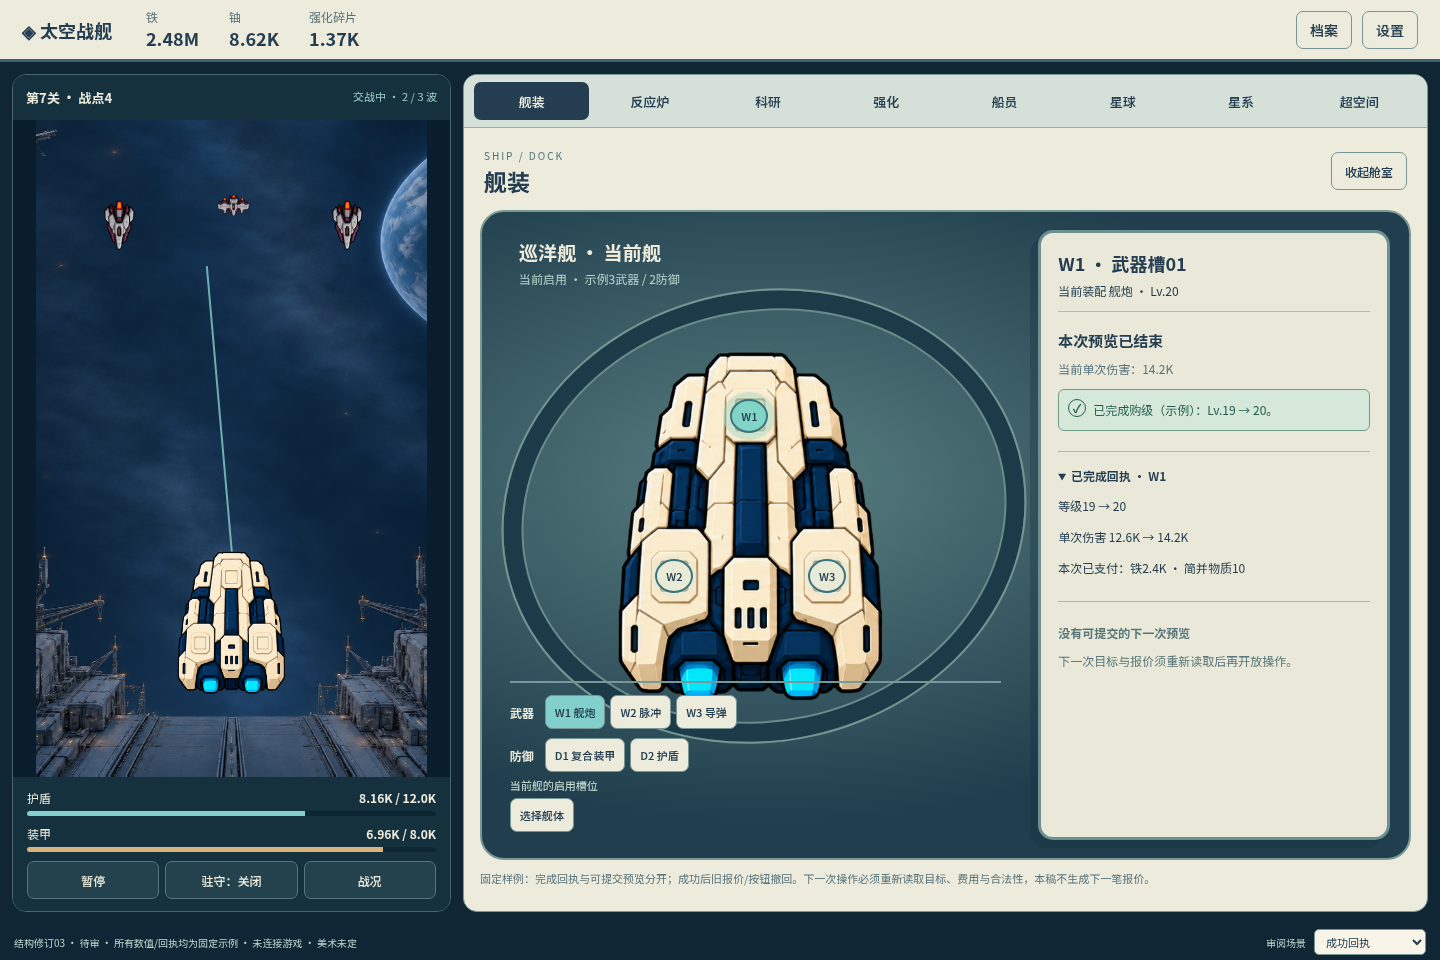
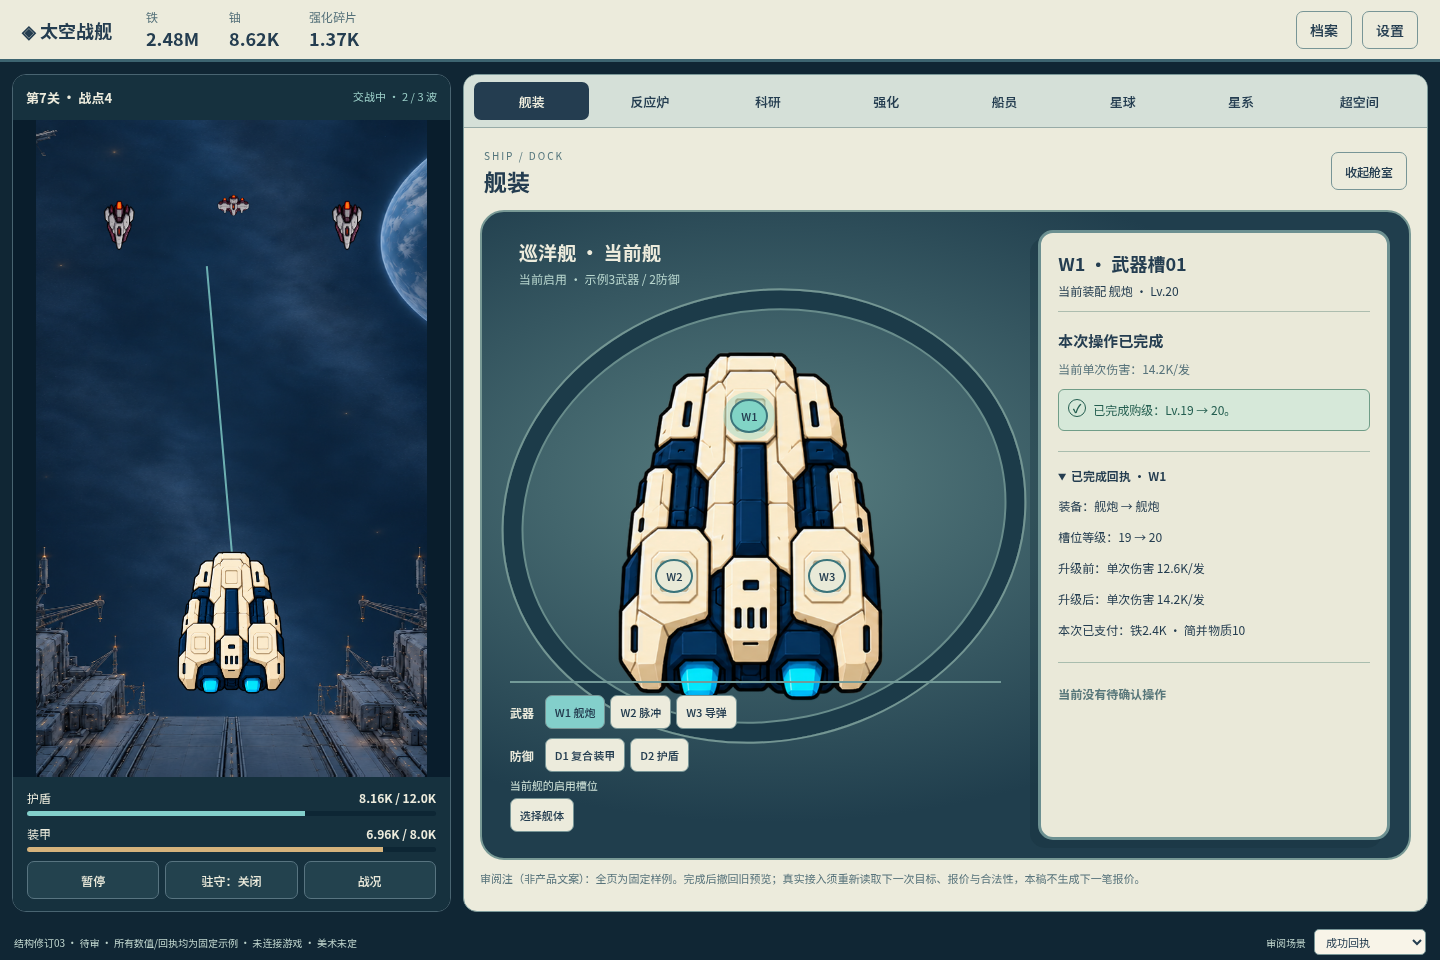
docs: correct refit success metrics and completed receipt copy

diff --git a/space-battleship/docs/ui-design-candidate/desktop.js b/space-battleship/docs/ui-design-candidate/desktop.js
@@ -60,21 +60,29 @@ function researchView(){
   </div><p class="scene-note">固定样例：效果、工作量和预计时间不是配置正确性证明。当前研究与候选分离；自动投入设置和岗位续研分别显示，铁/铀通过既有单资源端口独立应用。</p>`;
 }
 const slotData={W1:{name:'武器槽01',type:'舰炮',value:'12.6K',next:'14.2K',property:'单次伤害'},W2:{name:'武器槽02',type:'脉冲',value:'8.4K',next:'9.5K',property:'单次伤害'},W3:{name:'武器槽03',type:'导弹',value:'6.2K',next:'7.0K',property:'单次伤害'},D1:{name:'防御槽01',type:'复合装甲',value:'8.0K',next:'9.1K',property:'最大容量'},D2:{name:'防御槽02',type:'护盾',value:'12.0K',next:'13.6K',property:'最大容量'}};
+function equipmentMetric(type,value){
+  // Fixed display fixtures only; production consumes the module's comparison fields.
+  if(type==='长激光')return {name:'持续伤害',text:value+'/秒'};
+  if(type==='护盾')return {name:'最大护盾容量',text:value};
+  if(type==='复合装甲')return {name:'最大装甲容量',text:value};
+  return {name:'单次伤害',text:value+'/发'};
+}
 function equipmentView(){
   const slot=slotData[state.slot],mode=state.equipment,success=mode==='success',replace=state.candidate==='replace';
   const candidate=replace?(state.slot.startsWith('D')?'护盾':'长激光'):slot.type;
   const currentType=success&&replace?candidate:slot.type;
   const currentLevel=success&&!replace?'20':'19';
+  const beforeMetric=equipmentMetric(slot.type,slot.value),afterMetric=equipmentMetric(replace?candidate:slot.type,slot.next);
   const comparison=`<label class="small" for="candidate">候选操作</label><select id="candidate"><option value="upgrade" ${replace?'':'selected'}>购级 · 当前装备升1级</option><option value="replace" ${replace?'selected':''}>换装 · ${state.slot.startsWith('D')?'护盾':'长激光'}候选</option></select><p class="selection-line">预览目标：${state.slot} · ${replace?'换装':'购级1级'}</p>
     <table class="compare-table"><thead><tr><th>属性</th><th>当前</th><th>候选</th></tr></thead><tbody><tr><td>装备</td><td>${currentType}</td><td>${candidate}</td></tr><tr><td>槽位等级</td><td>19</td><td>${replace?'19':'20'}</td></tr><tr><td>${replace&&!state.slot.startsWith('D')?'主属性（异口径）':slot.property}</td><td>${replace&&!state.slot.startsWith('D')?'单次 ':''}${slot.value}</td><td>${replace&&!state.slot.startsWith('D')?'持续 ':''}${slot.next}${replace&&!state.slot.startsWith('D')?'/秒':''}</td></tr><tr><td>冷却</td><td>1.2秒</td><td>${replace?'2.0秒':'1.2秒'}</td></tr></tbody></table>
     <div class="quote"><strong>本次费用</strong><p>${replace?'换装报价等待真实端口接入':'铁2.4K · 简并物质10'}</p><p class="small ${mode==='insufficient'?'':'muted'}">${mode==='insufficient'?'缺少简并物质4；当前拥有6':'余额与合法性由业务返回'}</p></div>
     <button class="commit primary" id="equipment-commit" ${mode==='cooldown'?'disabled':''}>${mode==='cooldown'?'换装冷却中 · 2.6秒':replace?'确认换装（示例）':'购买1级（示例）'}</button>
     ${statusBlock(mode==='insufficient'?'error':mode==='cooldown'?'warning':'neutral',mode==='insufficient'?'未提交：缺少简并物质4，选择与草稿保持。':mode==='cooldown'?'冷却中：剩余2.6秒，选择与候选保持。':'预览就绪 · 尚未提交。','equipment-feedback')}`;
-  const completed=`<section class="completed-transaction" data-transaction="closed"><h3>本次预览已结束</h3><p class="small muted">当前${slot.property}：${slot.next}${replace&&!state.slot.startsWith('D')?'/秒':''}</p>${state.equipmentNotice?statusBlock('success',replace?'已完成换装（示例），槽位等级保留。':'已完成购级（示例）：Lv.19 → 20。','equipment-feedback'):''}<details class="receipt-record"><summary>已完成回执 · ${state.slot}</summary><p>${replace?`${slot.type} → ${candidate}；等级19保持`:'等级19 → 20'}</p><p>${replace?'替换前后属性口径分别记录':`${slot.property} ${slot.value} → ${slot.next}`}</p><p>${replace?'换装结果为固定样例':'本次已支付：铁2.4K · 简并物质10'}</p></details><div class="next-preview-status"><strong>没有可提交的下一次预览</strong><p>下一次目标与报价须重新读取后再开放操作。</p></div></section>`;
+  const completed=`<section class="completed-transaction" data-transaction="closed"><h3>本次操作已完成</h3><p class="small muted">当前${afterMetric.name}：${afterMetric.text}</p>${state.equipmentNotice?statusBlock('success',replace?'已完成换装，槽位等级保留。':'已完成购级：Lv.19 → 20。','equipment-feedback'):''}<details class="receipt-record"><summary>已完成回执 · ${state.slot}</summary><p>装备：${slot.type} → ${replace?candidate:slot.type}</p><p>槽位等级：19 → ${replace?'19':'20'}</p><p>${replace?'换装前':'升级前'}：${beforeMetric.name} ${beforeMetric.text}</p><p>${replace?'换装后':'升级后'}：${afterMetric.name} ${afterMetric.text}</p>${replace?'':'<p>本次已支付：铁2.4K · 简并物质10</p>'}</details><div class="next-preview-status"><strong>当前没有待确认操作</strong></div></section>`;
   return `<div class="dock"><div class="dock-floor"></div><div class="dock-identity"><h2>巡洋舰 · 当前舰</h2><p>当前启用 · 示例3武器 / 2防御</p></div>
     <div class="ship-wrap"><img alt="巡洋舰当前预览" src="../../assets/ui/ships/fleet_20261019/03-cruiser.png">${[['W1',49.75,29.35],['W2',35.79,58.90],['W3',64.21,58.90]].map(([id,x,y])=>`<button class="hardpoint ${state.slot===id?'active':''}" data-slot="${id}" style="left:${x}%;top:${y}%" aria-label="选择${id}武器槽">${id}</button>`).join('')}</div>
-    <div class="slot-rail"><div class="actions"><b>武器</b>${['W1','W2','W3'].map(id=>`<button class="${state.slot===id?'active':''}" data-slot="${id}">${id} ${slotData[id].type}</button>`).join('')}</div><div class="actions defence-rail"><b>防御</b>${['D1','D2'].map(id=>`<button class="${state.slot===id?'active':''}" data-slot="${id}">${id} ${slotData[id].type}</button>`).join('')}</div><p>当前舰的启用槽位</p><button class="compact" id="choose-hull">选择舰体</button></div>
-    <section class="comparison"><h2>${state.slot} · ${slot.name}</h2><p class="identity">当前装配 ${currentType} · Lv.${currentLevel}</p>${success?completed:comparison}</section></div><p class="scene-note">固定样例：完成回执与可提交预览分开；成功后旧报价/按钮撤回。下一次操作必须重新读取目标、费用与合法性，本稿不生成下一笔报价。</p>`;
+    <div class="slot-rail"><div class="actions"><b>武器</b>${['W1','W2','W3'].map(id=>`<button class="${state.slot===id?'active':''}" data-slot="${id}">${id} ${success&&replace&&id===state.slot?candidate:slotData[id].type}</button>`).join('')}</div><div class="actions defence-rail"><b>防御</b>${['D1','D2'].map(id=>`<button class="${state.slot===id?'active':''}" data-slot="${id}">${id} ${success&&replace&&id===state.slot?candidate:slotData[id].type}</button>`).join('')}</div><p>当前舰的启用槽位</p><button class="compact" id="choose-hull">选择舰体</button></div>
+    <section class="comparison"><h2>${state.slot} · ${slot.name}</h2><p class="identity">当前装配 ${currentType} · Lv.${currentLevel}</p>${success?completed:comparison}</section></div><p class="scene-note">审阅注（非产品文案）：全页为固定样例。完成后撤回旧预览；真实接入须重新读取下一次目标、报价与合法性，本稿不生成下一笔报价。</p>`;
 }
 function completeEquipment(){
   const notice={};state.equipment='success';state.equipmentNotice=notice;render();

diff --git a/space-battleship/docs/ui-design-candidate/README.md b/space-battleship/docs/ui-design-candidate/README.md
@@ -29,7 +29,7 @@
 | UI-05 单资源提交 | 铁/铀各有当前值、草稿、应用/还原与独立结果；展示铁成功而铀失败，不暗示双资源原子事务 | [逐资源投入](evidence/research-terminal-1440x960.png)、[分别回执](evidence/research-partial-1440x960.png) |
 | UI-06 反馈语义 | 中性圆点、成功勾、错误方框叹号及不同底色/边框；成功通知4.5秒后收回，已完成记录仍可查 | [中性](evidence/equipment-1440x960.png)、[错误](evidence/equipment-insufficient-1440x960.png)、[通知收回后](evidence/equipment-settled-1440x960.png) |
 
-以上为候选修正，不自判独立审核通过。当前目录共19张桌面整屏，原结构02可在f806a0d4追溯。
+以上为候选修正，不自判独立审核通过。当前目录共20张桌面整屏；六项版本可在80d1afd4追溯，原结构02可在f806a0d4追溯。
 
 ## 保留的结构与审阅身份
 
@@ -43,3 +43,9 @@
 本稿全部金额、效果、费用、等级与回执为固定排版样例，不证明真实配置组合、解锁或计算正确。未生成最终资产。历史窄屏截图已退出当前目录，可在ef74a539追溯；不再保留30%/42%方案供选择。
 
 [结构说明](design.md) · [资产与来源](assets-and-sources.md) · [验证与剩余工作](validation.md)
+
+## 换装成功态小修
+
+按复审补正长激光成功态：当前属性改为“持续伤害14.2K/秒”；展开回执给舰炮单次12.6K/发→长激光持续14.2K/秒、装备前后和槽位19保留。同一槽位轨同步新装备名称。“下一次报价须重新读取”等接入说明只放在标明“非产品文案”的审阅注，产品面只显示当前装配、已完成记录和“当前没有待确认操作”。
+
+[换装成功整屏](evidence/equipment-refit-success-1440x960.png) · [本次12项检查](evidence/refit-success-checks.json)。未重开整体结构或生成下一次预览。
